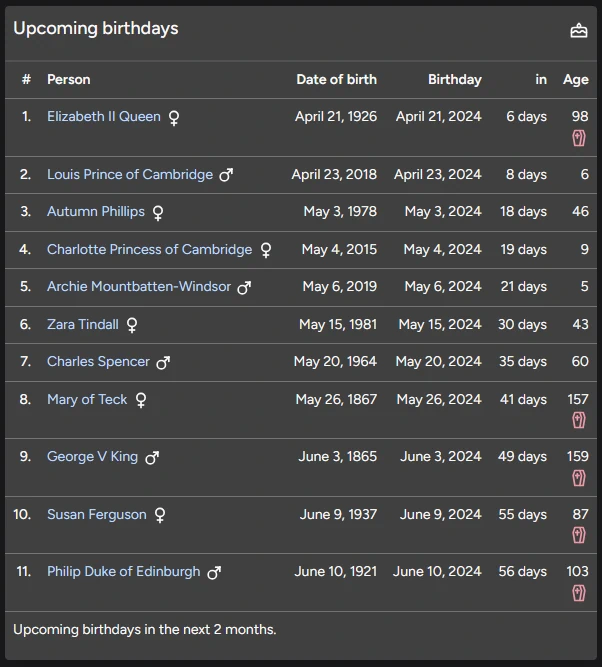
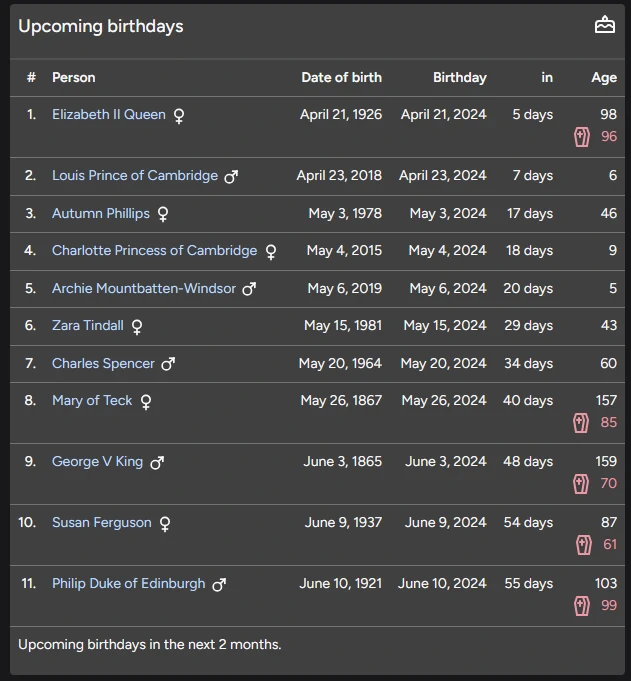
Installation

diff --git a/resources/views/back/people/birthdays.blade.php b/resources/views/back/people/birthdays.blade.php
@@ -62,7 +62,7 @@
                                     @if ($person->isDeceased())
                                         <br />
                                         <span class="text-danger-600 dark:text-danger-400">
-                                            <x-ts-icon icon="coffin" class="inline-block" />
+                                            <x-ts-icon icon="coffin" class="inline-block mr-1" /> {{ $person->age }}
                                         </span>
                                     @endif
                                 </td>
